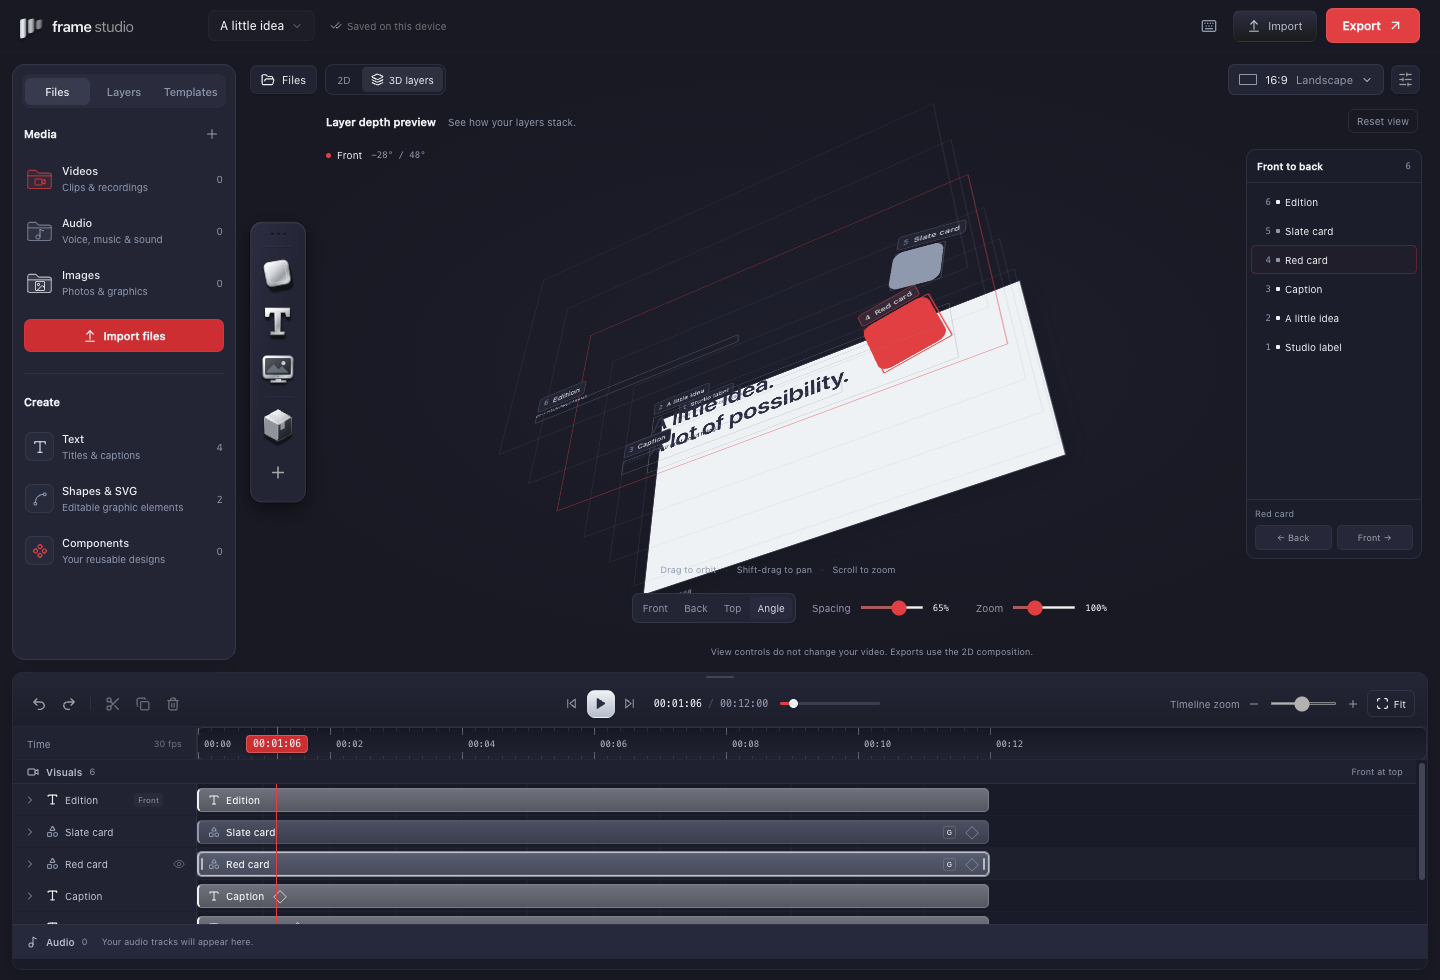
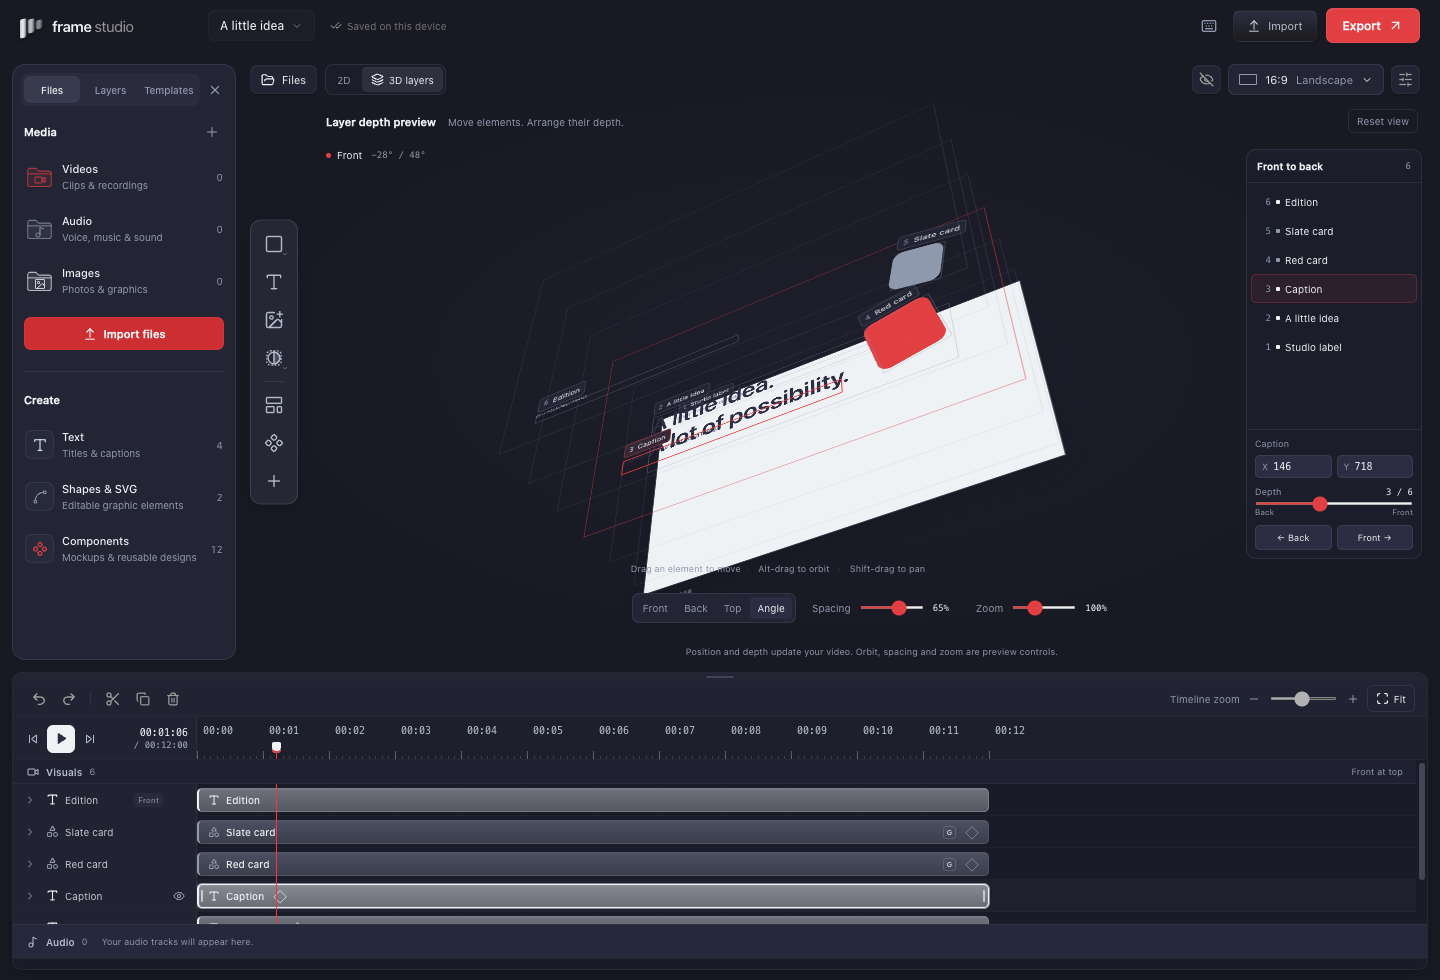
Document alpha 9 tools with verified native screenshots

diff --git a/docs/visual-tools.md b/docs/visual-tools.md
@@ -1,4 +1,4 @@
-# Masks, color, and background tools
+# Visual editing tools
 
 These tools edit the selected layer and participate in Undo/Redo. They run locally and keep the original imported image intact.
 
@@ -8,9 +8,11 @@ These tools edit the selected layer and participate in Undo/Redo. They run local
 
 **Shapes** opens seven choices: rectangle, rounded rectangle, ellipse, triangle, star, line, and arrow. Each inserts an editable layer at the current playhead. Resize and recolor it on the board or in Properties.
 
+![Compact shape menu on the canvas](images/toolbar.png)
+
 **Drawing tools** contains Pencil, Brush, and Pen, with stroke color and width settings. Pencil and Brush create freehand vector strokes; Brush starts with a wider stroke. **Pen (B)** builds a path point by point: click for a corner, drag for a smooth Bézier handle. **Enter / Finish** completes an open path. Click the first point or use **Close path** to make a filled closed shape. **Backspace** removes the last draft point; **Escape / Cancel** discards the draft. Completing the path is one undo step.
 
-Paths stay vector data in project files and SVG snapshots. They can be moved, resized, colored, grouped, masked, and animated like other layers. This creates new paths; reopening imported paths for anchor-by-anchor editing is not yet supported.
+Paths stay vector data in project files and SVG exports. They can be moved, resized, colored, grouped, masked, and animated like other layers. This creates new paths; reopening imported paths for anchor-by-anchor editing is not yet supported.
 
 Tool menus close with their X, Escape, or a click elsewhere. **Templates** and **Components** have visible toolbar shortcuts. The library has its own close button. **Hide panels** clears both side panels and keeps them hidden while selecting or drawing; **Show panels** restores them. These view changes do not alter the project.
 

diff --git a/docs/design-language.md b/docs/design-language.md
@@ -63,6 +63,8 @@ Selecting a plane or its layer-list row shares selection with the editor. Draggi
 
 The selected layer's depth slider and forward/back buttons change its saved stacking order and the 2D result. Depth represents layer order rather than an independent 3D coordinate. Position and depth gestures each create one Undo step. Locked selections cannot be moved; audio keeps its own array slots during depth changes. Visible Back/Front endpoints and the numbered layer list make the order clear.
 
+![Position and depth controls in the 3D workspace](images/layer-depth.png)
+
 ## Timeline, motion, and sound
 
 Visual and audio tracks have separate labeled sections. Visual tracks show the frontmost layer at the top, with front/back cues corresponding to the composition's stacking order. Each layer keeps its own editable clip. The ruler displays time against the project frame rate and adjusts label spacing as the timeline zoom changes. Fit timeline makes the full sequence reachable in the available width. Trim edges are visible on interaction, and image clips use their real imported thumbnails. The timeline height can be changed by dragging its separator or using its arrow-key controls.
